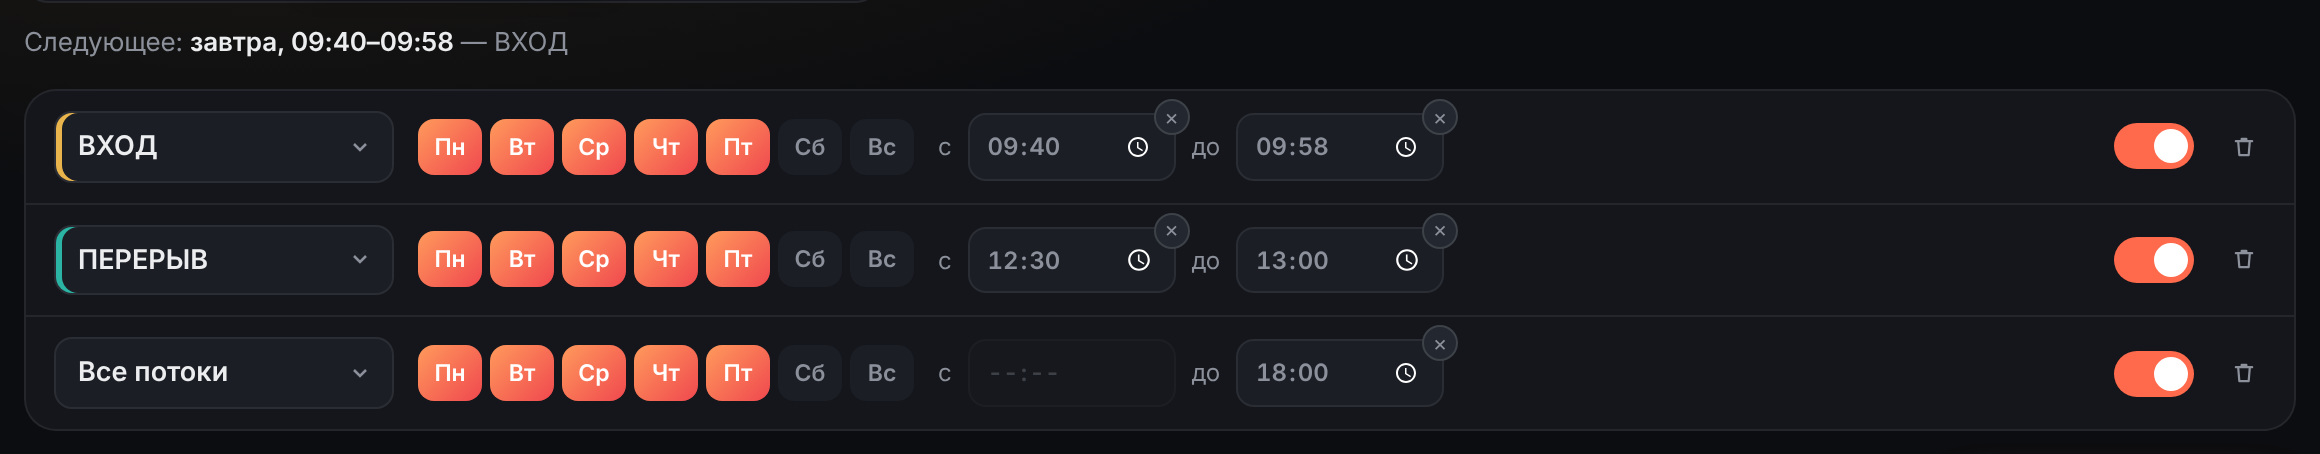
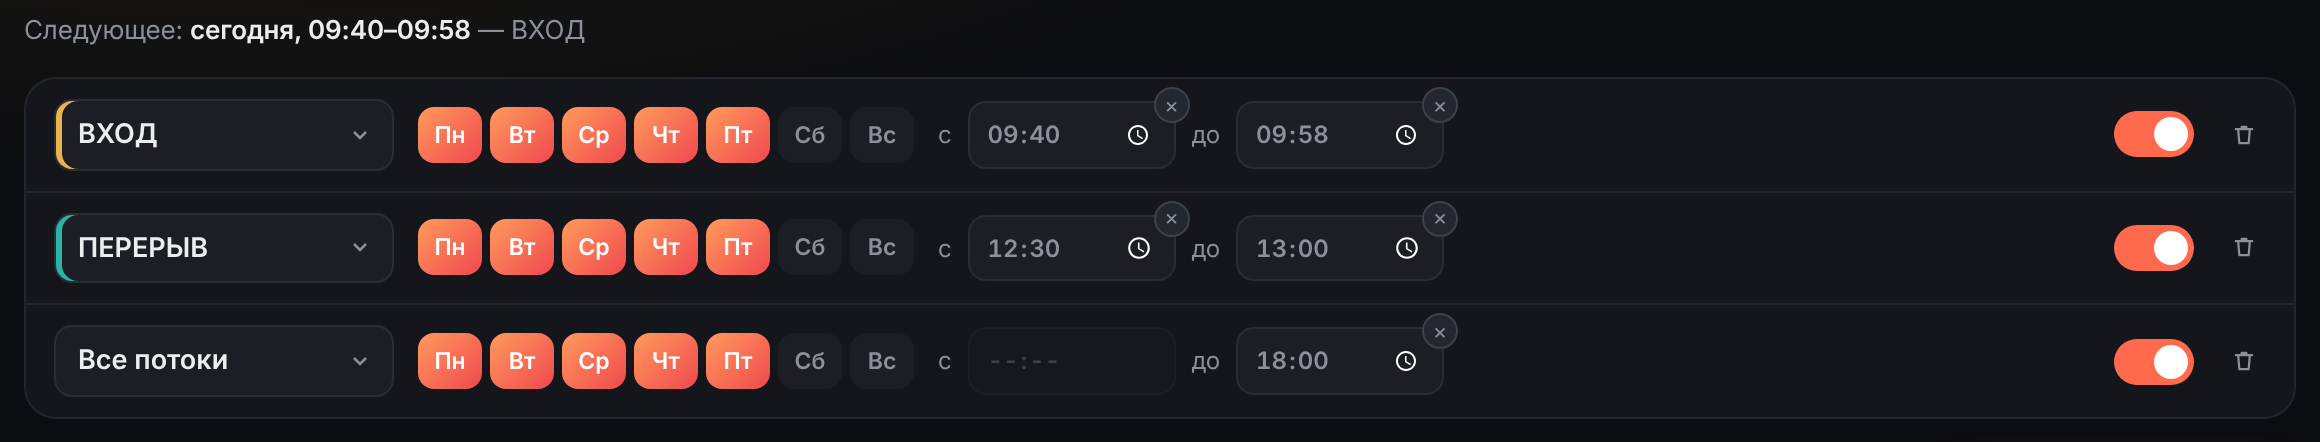
3.0.6: schedule rules across midnight, «Папка не найдена», cleaner cards and texts; site: Stream Deck Mini
Claude-Session: https://claude.ai/code/session_01WNY9TUvgRUgXt14yswfnxt

diff --git a/docs/index.html b/docs/index.html
@@ -154,21 +154,23 @@ footer a:hover { color: var(--tx); }
 .sd-intro { color: #C9CBD1; font-size: 14.5px; margin: 0 0 18px; }
 .sd-intro b { color: var(--tx); }
 .sd-note { color: var(--mu); font-size: 13px; margin: 18px 0 0; }
-.sd-device { justify-self: center; text-align: center; }
-.sd-body { display: grid; grid-template-columns: repeat(5, 64px); gap: 10px; padding: 18px; border-radius: 22px; background: linear-gradient(180deg, #1C1D21, #0D0E10); border: 1px solid var(--line2); box-shadow: 0 40px 80px -30px #000, inset 0 1px 0 rgba(255,255,255,.06); }
-.sd-body img, .sd-body span { width: 64px; height: 64px; border-radius: 10px; display: block; }
-.sd-body span { background: #08090A; box-shadow: inset 0 0 0 1px rgba(255,255,255,.05); }
-.sd-stand { width: 46%; height: 16px; margin: 0 auto; background: linear-gradient(180deg, #121316, #08090A); border-radius: 0 0 12px 12px; border: 1px solid var(--line); border-top: 0; }
+.sd-device { justify-self: center; text-align: center; perspective: 1100px; }
+.sd-mini { position: relative; display: inline-block; transform: rotateX(16deg); transform-origin: 50% 100%; }
+.sd-body { position: relative; display: grid; grid-template-columns: repeat(3, 92px); gap: 14px; padding: 26px 28px 30px; border-radius: 26px; background: linear-gradient(160deg, #2A2C31 0%, #16171A 38%, #0B0C0E 100%); box-shadow: 0 2px 0 #050506, 0 50px 70px -30px #000, inset 0 1px 0 rgba(255,255,255,.14), inset 0 -2px 6px rgba(0,0,0,.6); }
+.sd-body::before { content: ""; position: absolute; inset: 12px; border-radius: 18px; background: #050607; box-shadow: inset 0 2px 6px rgba(0,0,0,.9), 0 1px 0 rgba(255,255,255,.05); }
+.sd-body img { position: relative; width: 92px; height: 92px; border-radius: 12px; display: block; box-shadow: 0 0 0 2px #000, 0 4px 10px rgba(0,0,0,.6); }
+.sd-base { width: 78%; height: 20px; margin: -2px auto 0; background: linear-gradient(180deg, #1A1B1F, #070708); border-radius: 0 0 16px 16px; box-shadow: 0 24px 30px -12px rgba(0,0,0,.9); }
+.sd-floor { width: 90%; height: 26px; margin: -6px auto 0; background: radial-gradient(50% 60% at 50% 40%, rgba(0,0,0,.65), transparent 70%); }
 .sd-cap { color: var(--mu2); font-size: 12px; margin: 14px 0 0; }
 @media (max-width: 1000px) { .features.four { grid-template-columns: repeat(2, 1fr); } }
-@media (max-width: 560px) { .features.four, .trio.two { grid-template-columns: 1fr; } .sd-body { grid-template-columns: repeat(5, 48px); gap: 7px; padding: 12px; } .sd-body img, .sd-body span { width: 48px; height: 48px; border-radius: 8px; } }
+@media (max-width: 560px) { .features.four, .trio.two { grid-template-columns: 1fr; } .sd-body { grid-template-columns: repeat(3, 70px); gap: 10px; padding: 20px 20px 22px; } .sd-body img { width: 70px; height: 70px; border-radius: 9px; } }
 </style>
 </head>
 <body>
 <nav>
   <div class="wrap">
     <a class="brand" href="#"><img src="icon.png" alt="">PolyPlayer</a>
-    <div class="links"><a href="#who">Для кого</a><a href="#about">Как устроено</a><a href="#control">Управление</a><a href="#streamdeck">Stream Deck</a><a href="#faq">Вопросы</a></div>
+    <div class="links"><a href="#who">Для кого</a><a href="#about">Как устроено</a><a href="#control">Управление</a><a href="#streamdeck">Stream Deck</a><a href="#faq">Вопросы</a></div>
     <a class="btn btn-acc" href="https://github.com/polyplayer-app/polyplayer/releases/latest/download/PolyPlayer-Setup.exe">Скачать</a>
   </div>
 </nav>
@@ -227,7 +229,7 @@ footer a:hover { color: var(--tx); }
     <div class="features four">
       <div class="f"><div class="ic"><svg viewBox="0 0 24 24" fill="none" stroke="currentColor" stroke-width="2" stroke-linecap="round" stroke-linejoin="round"><rect x="3" y="4" width="18" height="14" rx="2.5"/><path d="M10 9v4l3.5-2z"/><path d="M8 21h8"/></svg></div><b>Окно программы</b><p>Всё на виду: сразу понятно, какой поток играет, и у каждого свой регулятор громкости.</p></div>
       <div class="f"><div class="ic"><svg viewBox="0 0 24 24" fill="none" stroke="currentColor" stroke-width="2" stroke-linecap="round" stroke-linejoin="round"><rect x="2" y="6" width="20" height="12" rx="2.5"/><path d="M6 10h.01M10 10h.01M14 10h.01M18 10h.01M7 14h10"/></svg></div><b>Горячие клавиши</b><p>Включайте и ставьте на паузу потоки, останавливайте всё и переключайте треки без мыши — даже когда окно свёрнуто.</p></div>
-      <div class="f"><div class="ic"><svg viewBox="0 0 24 24" fill="none" stroke="currentColor" stroke-width="2" stroke-linecap="round"><rect x="3" y="5" width="18" height="14" rx="3"/><path d="M8 10h.01M12 10h.01M16 10h.01M8 14h.01M12 14h.01M16 14h.01"/></svg></div><b>Пульт Stream Deck</b><p>Каждый поток — на отдельной кнопке. Кнопка показывает, играет ли поток и какая у него громкость.</p></div>
+      <div class="f"><div class="ic"><svg viewBox="0 0 24 24" fill="none" stroke="currentColor" stroke-width="2" stroke-linecap="round"><rect x="3" y="5" width="18" height="14" rx="3"/><path d="M8 10h.01M12 10h.01M16 10h.01M8 14h.01M12 14h.01M16 14h.01"/></svg></div><b>Пульт Stream Deck</b><p>Каждый поток — на отдельной кнопке. Кнопка показывает, играет ли поток и какая у него громкость.</p></div>
       <div class="f"><div class="ic"><svg viewBox="0 0 24 24" fill="none" stroke="currentColor" stroke-width="2" stroke-linecap="round"><circle cx="12" cy="13" r="8"/><path d="M12 9v4l3 2M9 2h6"/></svg></div><b>Расписание</b><p>Укажите дни недели и время, и нужный поток включится сам, а к концу промежутка плавно затихнет.</p></div>
     </div>
   </div>
@@ -245,20 +247,22 @@ footer a:hover { color: var(--tx); }
 <section id="streamdeck">
   <div class="wrap split">
     <div>
-      <div class="kicker">Пульт Stream Deck</div>
+      <div class="kicker">Пульт Stream Deck</div>
       <h2>Каждый поток — <em>на своей кнопке</em></h2>
-      <p class="sd-intro"><b>Stream Deck</b> — пульт Elgato с кнопками-экранчиками, каждой из которых назначается своё действие.</p>
-      <p class="sd-intro">PolyPlayer устанавливает на пульт свой плагин: каждый поток получает отдельную кнопку с названием, цветом и шкалой громкости. Пока поток играет, кнопка светится. Нажатие включает поток или ставит его на паузу, удержание — останавливает. Есть и отдельные кнопки «Стоп всё» и «Следующий трек», а на Stream Deck + громкость потока меняется поворотом регулятора.</p>
-      <p class="sd-note">Плагин устанавливается вместе с программой, а если пульт появился позже — из настроек PolyPlayer. Stream Deck не обязателен: всё то же самое можно делать в окне программы или горячими клавишами.</p>
+      <p class="sd-intro"><b>Stream Deck</b> — пульт Elgato с кнопками-экранчиками. PolyPlayer поддерживает его напрямую: собственный плагин ставится вместе с программой, и ничего не нужно настраивать через горячие клавиши или сторонние плагины. Перетащите на кнопку действие «Поток» и выберите поток прямо на пульте.</p>
+      <p class="sd-intro">Каждый поток получает отдельную кнопку с названием, цветом и шкалой громкости. Пока поток играет, кнопка светится. Нажатие включает поток или ставит его на паузу, удержание — останавливает. Есть и отдельные кнопки «Стоп всё» и «Следующий трек», а на Stream Deck + громкость потока меняется поворотом регулятора.</p>
+      <p class="sd-note">Если пульт появился позже, плагин можно поставить из настроек PolyPlayer. Stream Deck не обязателен: всё то же самое можно делать в окне программы или горячими клавишами.</p>
     </div>
-    <div class="sd-device" aria-label="Пульт с кнопками PolyPlayer">
-      <div class="sd-body">
-        <img src="img/key-playing.png" alt="Поток «Вход» играет"><img src="img/key-stopped.png" alt="Поток «Перерыв»"><img src="img/key-finale.png" alt="Поток «Финал»"><img src="img/key-stopall.png" alt="Стоп всё"><img src="img/key-next.png" alt="Следующий трек">
-        <span></span><span></span><span></span><span></span><img src="img/key-panel.png" alt="Кнопка PolyPlayer">
-        <span></span><span></span><span></span><span></span><span></span>
+    <div class="sd-device" aria-label="Stream Deck Mini с кнопками PolyPlayer">
+      <div class="sd-mini">
+        <div class="sd-body">
+          <img src="img/key-playing.png" alt="Поток «Вход» играет"><img src="img/key-stopped.png" alt="Поток «Перерыв»"><img src="img/key-finale.png" alt="Поток «Финал»">
+          <img src="img/key-stopall.png" alt="Стоп всё"><img src="img/key-next.png" alt="Следующий трек"><img src="img/key-panel.png" alt="Кнопка PolyPlayer">
+        </div>
+        <div class="sd-base"></div>
       </div>
-      <div class="sd-stand"></div>
-      <p class="sd-cap">Так кнопки PolyPlayer выглядят на пульте с 15 кнопками</p>
+      <div class="sd-floor"></div>
+      <p class="sd-cap">Так кнопки PolyPlayer выглядят на Stream Deck Mini</p>
     </div>
   </div>
 </section>
@@ -271,7 +275,7 @@ footer a:hover { color: var(--tx); }
     <div class="steps">
       <div class="step"><b>Подготовьте папки</b><p>Разложите музыку по папкам: одна папка — один поток.</p></div>
       <div class="step"><b>Создайте потоки</b><p>Выберите для каждого потока папку и дайте ему название.</p></div>
-      <div class="step"><b>Настройте управление</b><p>Назначьте горячие клавиши, кнопки Stream Deck или расписание.</p></div>
+      <div class="step"><b>Настройте управление</b><p>Назначьте горячие клавиши, кнопки Stream Deck или расписание.</p></div>
     </div>
   </div>
 </section>
@@ -283,7 +287,7 @@ footer a:hover { color: var(--tx); }
     <div class="faq">
       <details><summary>Это действительно бесплатно?</summary><p>Да. PolyPlayer — программа с открытым исходным кодом (лицензия GPL v3). В ней нет подписок, рекламы и платных версий.</p></details>
       <details><summary>Нужен ли интернет?</summary><p>Нет. Музыка играет из папок на вашем компьютере. Интернет нужен только для того, чтобы программа узнала о выходе новой версии.</p></details>
-      <details><summary>Обязательно ли покупать Stream Deck?</summary><p>Нет. Пульт нужен тем, кому удобнее физические кнопки. Программой так же легко управлять мышью, горячими клавишами или по расписанию.</p></details>
+      <details><summary>Обязательно ли покупать Stream Deck?</summary><p>Нет. Пульт нужен тем, кому удобнее физические кнопки. Программой так же легко управлять мышью, горячими клавишами или по расписанию.</p></details>
       <details><summary>Какие файлы поддерживаются?</summary><p>MP3, M4A, AAC, WAV, FLAC, OGG и OPUS. PolyPlayer играет только файлы с компьютера и не подключается к стриминговым сервисам, поэтому музыка не зависит от сети.</p></details>
       <details><summary>Почему при установке Windows показывает синее окно SmartScreen?</summary><p>У PolyPlayer пока нет платной цифровой подписи разработчика, и о таких программах Windows на всякий случай предупреждает. Нажмите «Подробнее», затем «Выполнить в любом случае». Исходный код открыт, его можно проверить на GitHub.</p></details>
       <details><summary>Как обновлять программу?</summary><p>Вручную ничего скачивать не нужно. При запуске PolyPlayer сам проверяет, вышла ли новая версия, и предлагает обновиться. Обновление устанавливается за пару минут, потоки и расписание сохраняются.</p></details>
@@ -301,7 +305,7 @@ footer a:hover { color: var(--tx); }
     </a>
   </div>
   <footer>
-    <span>© PolyPlayer · открытый исходный код, лицензия GPL v3 · Stream Deck — товарный знак Elgato</span>
+    <span>© PolyPlayer · открытый исходный код, лицензия GPL v3 · Stream Deck — товарный знак Elgato</span>
     <span><a href="https://github.com/polyplayer-app/polyplayer">GitHub</a> · <a href="https://github.com/polyplayer-app/polyplayer/releases">Все версии</a> · <a href="https://github.com/polyplayer-app/polyplayer/issues">Сообщить о проблеме</a></span>
   </footer>
 </div>

diff --git a/app/public/index.html b/app/public/index.html
@@ -283,11 +283,11 @@ dialog::backdrop { background: rgba(5,6,8,.65); backdrop-filter: blur(3px); }
 
   <section class="pane" data-pane="settings" hidden>
     <label class="set">
-      <div class="txt"><b>Запуск вместе с компьютером</b><small>После включения компьютера PolyPlayer запустится сам и спрячется в значок возле часов</small></div>
+      <div class="txt"><b>Запускать вместе с Windows</b><small>PolyPlayer запустится свёрнутым в трей.</small></div>
       <span class="switch"><input type="checkbox" id="autoOpen"><span></span></span>
     </label>
     <label class="set">
-      <div class="txt"><b>Играет только один поток</b><small>Когда включаете поток, тот, что играл, плавно затихает. Выключите, если нужно смешивать потоки</small></div>
+      <div class="txt"><b>Играет только один поток</b><small>Новый поток плавно сменяет тот, что играл. Выключите, чтобы потоки звучали вместе.</small></div>
       <span class="switch"><input type="checkbox" id="soloAll"><span></span></span>
     </label>
     <div class="set hk-set">
@@ -308,7 +308,7 @@ dialog::backdrop { background: rgba(5,6,8,.65); backdrop-filter: blur(3px); }
       <a class="btn2 lnk" id="updNews" href="#" target="_blank" hidden>Что нового</a>
       <button class="btn2" id="updBtn" type="button">Проверить обновления</button>
     </div>
-    <p class="note">ICON:help Крестик прячет окно в значок возле часов — музыка продолжает играть. Выйти из программы: правый клик по значку → «Выйти».</p>
+    <p class="note">ICON:help Если закрыть окно, музыка продолжит играть, а PolyPlayer останется в трее. Выйти — правый клик по значку → «Выйти».</p>
   </section>
 </div>
 <dialog id="updDlg" class="upd-dlg">
@@ -333,7 +333,7 @@ dialog::backdrop { background: rgba(5,6,8,.65); backdrop-filter: blur(3px); }
       <button class="ghost" id="helpClose" type="button">Закрыть</button>
     </div>
 
-    <p class="lead"><b>PolyPlayer</b> играет фоновую музыку в несколько потоков. Каждый <b>поток</b> — это плеер, который воспроизводит треки из назначенной папки. Потоки создаются вручную и включаются и выключаются одной кнопкой.</p>
+    <p class="lead"><b>PolyPlayer</b> — многопоточный аудиоплеер. Каждый <b>поток</b> играет музыку из своей папки, а включать потоки можно кнопками, горячими клавишами, с пульта Stream Deck или по расписанию.</p>
     <p>В программе три вкладки: <b>Потоки</b> — список созданных потоков, <b>Расписание</b> — автоматическое включение и выключение потоков, <b>Настройки</b> — общие настройки программы.</p>
 
     <h3>1. Потоки: создание и изменение</h3>
@@ -368,18 +368,18 @@ dialog::backdrop { background: rgba(5,6,8,.65); backdrop-filter: blur(3px); }
     <p><b>Горячие клавиши</b> — у каждого потока может быть своё сочетание клавиш, оно назначается в настройках потока. Сочетания для «Стоп всё» и «Следующего трека» задаются во вкладке «Настройки». Горячие клавиши работают во всей системе, даже когда окно PolyPlayer свёрнуто.</p>
     <p><b>Громкость потока</b> — ползунок на его карточке, программа её запоминает. Общую громкость регулируйте на звуковой карте, микшере или значком динамика возле часов.</p>
     <p>Обычно одновременно играет один поток: например, включили «Плейлист 2», пока играл «Плейлист 1», — первый сам плавно затихнет. Если нужно, чтобы потоки звучали вместе, выключите это во вкладке «Настройки».</p>
-    <p>Музыка играет, пока PolyPlayer запущен, даже когда окна не видно. <b>Крестик</b> в углу окна не выключает программу: окно прячется в трей — значок возле часов, музыка продолжает играть. Чтобы полностью выйти из программы, щёлкните правой кнопкой по значку возле часов → <b>«Выйти»</b>.</p>
+    <p>Если закрыть окно, музыка не прервётся: PolyPlayer продолжит работать в трее — справа на панели задач, возле часов. Чтобы выйти полностью, щёлкните правой кнопкой по значку PolyPlayer в трее и выберите <b>«Выйти»</b>.</p>
 
     <h3>3. Расписание</h3>
     <p>Расписание само включает и выключает музыку. На вкладке «Расписание» нажмите <b>«Добавить правило»</b>, выберите поток, дни недели и время. Если выбрать <b>«Все потоки»</b>, в указанное время плавно выключится любой играющий поток.</p>
     <img class="shot" src="/help/schedule.png" width="700" alt="">
-    <p class="note2">Музыка включается только в само время «с»: если компьютер включили позже, поток сам не запустится. Без времени «с» правило только выключает поток. Правило через полночь (например, с 23:50 до 00:10) не сработает — программа его подсветит.</p>
+    <p class="note2">Музыка включается только в само время «с»: если компьютер включили позже, поток сам не запустится. Без времени «с» правило только выключает поток. Правило может переходить через полночь: «с 23:50 до 00:10» выключит музыку уже на следующий день.</p>
 
     <h3>4. Настройки</h3>
     <img class="shot" src="/help/settings.png" width="700" alt="">
     <ul>
-      <li><b>Запуск вместе с компьютером</b> — после включения компьютера программа запустится сама и спрячется в трей.</li>
-      <li><b>Играет только один поток</b> — когда включаете поток, тот, что играл, плавно затихает. Выключите, чтобы потоки могли звучать вместе.</li>
+      <li><b>Запускать вместе с Windows</b> — после включения компьютера PolyPlayer запустится сам, свёрнутым в трей.</li>
+      <li><b>Играет только один поток</b> — новый поток плавно сменяет тот, что играл. Выключите, чтобы потоки звучали вместе.</li>
       <li><b>Горячие клавиши</b> — сочетания для «Стоп всё» и «Следующего трека». Если сочетание уже занято другой программой, PolyPlayer подсветит его красным — выберите другое.</li>
       <li><b>Плагин для Stream Deck</b> — кнопка «Установить плагин», если Stream Deck установили позже PolyPlayer.</li>
       <li><b>Версия и обновления</b> — при запуске PolyPlayer сам проверяет, вышла ли новая версия, и предлагает её установить. Проверить вручную — кнопкой «Проверить обновления».</li>
@@ -413,7 +413,8 @@ dialog::backdrop { background: rgba(5,6,8,.65); backdrop-filter: blur(3px); }
       <li><b>Пульт не реагирует</b> — проверьте, что запущена программа Stream Deck. Если PolyPlayer был закрыт, первое нажатие кнопки запустит его — подождите пару секунд.</li>
       <li><b>Музыка играет, но не слышно</b> — проверьте громкость звуковой карты и устройство вывода звука (щелчок по значку динамика возле часов).</li>
       <li><b>Поток не сохраняется</b> — в выбранной папке нет музыкальных файлов.</li>
-      <li><b>Не видно значка возле часов</b> — нажмите стрелку <b>˄</b> рядом с часами: там спрятанные значки.</li>
+      <li><b>На карточке «Папка не найдена»</b> — папку переименовали, удалили или отключили флешку. Верните её на место или выберите другую в настройках потока.</li>
+      <li><b>Не видно значка PolyPlayer в трее</b> — нажмите стрелку <b>˄</b> рядом с часами: там спрятанные значки.</li>
     </ul>
   </div>
 </dialog>
@@ -779,10 +780,11 @@ const Engine = (() => {
     report();
     if (wasStopped) {
       let list = [];
-      try { const r = await fetch('/api/tracks/' + encodeURIComponent(c.id), { cache: 'no-store' }); list = (await r.json()).tracks || []; } catch (e) { /* сеть */ }
+      let missing = false;
+      try { const r = await fetch('/api/tracks/' + encodeURIComponent(c.id), { cache: 'no-store' }); const j = await r.json(); list = j.tracks || []; missing = !!j.missing; } catch (e) { /* сеть */ }
       if (my !== c.op) return;
       c.tracks = list;
-      if (!list.length) { c.state = 'stopped'; c.error = 'В папке нет треков'; report(); return; }
+      if (!list.length) { c.state = 'stopped'; c.error = missing ? 'Папка не найдена' : 'В папке нет треков'; report(); return; }
       makeQueue(c);
       loadCurrent(c);
       fadeTo(c, 0, 0);
@@ -1013,8 +1015,6 @@ function streamMeta(s) {
   const folder = s.folder ? s.folder.split(/[\\/]/).filter(Boolean).pop() : 'папка не выбрана';
   const bits = ['<span class="tag">' + ICON.folder + esc(folder) + '</span>'];
   if (s.hotkey) bits.push('<span class="tag hk' + (hotkeyFailed(s.hotkey) ? ' bad' : '') + '" title="' + (hotkeyFailed(s.hotkey) ? 'Сочетание занято другой программой' : 'Горячая клавиша') + '">' + esc(prettyHotkey(s.hotkey)) + '</span>');
-  bits.push('<span class="tag">плавно ' + s.fadeIn + ' / ' + s.fadeOut + ' с</span>');
-  if (s.crossfade > 0) bits.push('<span class="tag">переход ' + s.crossfade + ' с</span>');
   if (s.shuffle) bits.push('<span class="tag">' + ICON.shuffle + 'перемешать</span>');
   if (s.randomStart) bits.push('<span class="tag">с любого места</span>');
   if (!s.loop) bits.push('<span class="tag">один проход</span>');
@@ -1140,7 +1140,7 @@ setInterval(updateProgress, 250);
 
 // ---------- расписание ----------
 function renderNextRun() {
-  if (!nextRun) { $('#nextRun').innerHTML = config.schedules.length ? 'Ближайших событий нет — проверьте дни и переключатели.' : 'Правила включают и выключают музыку сами, в нужные дни и время.'; return; }
+  if (!nextRun) { $('#nextRun').innerHTML = config.schedules.length ? 'Ближайших событий нет — проверьте дни и переключатели.' : ''; return; }
   const d = new Date(nextRun.at);
   const today = new Date(); today.setHours(0, 0, 0, 0);
   const diff = Math.round((new Date(d).setHours(0, 0, 0, 0) - today) / 86400000);
@@ -1151,7 +1151,7 @@ function renderNextRun() {
 
 function schedMode(sc) {
   if (!sc.start && !sc.end) return 'укажите время';
-  if (sc.start && sc.end && sc.end <= sc.start) return '«до» раньше «с» — не сработает';
+  if (sc.start && sc.end && sc.end === sc.start) return '«с» и «до» совпадают';
   return '';
 }
 
@@ -1177,7 +1177,7 @@ function renderSchedules() {
   box.style.display = config.schedules.length ? '' : 'none';
   if (!config.schedules.length) {
     box.insertAdjacentHTML('afterend', '');
-    if (!$('#schedEmpty')) box.insertAdjacentHTML('beforebegin', '<div class="empty" id="schedEmpty">Правил пока нет. Например: «ПЛЕЙЛИСТ 1», воскресенье, с 09:40 до 09:55.</div>');
+    if (!$('#schedEmpty')) box.insertAdjacentHTML('beforebegin', '<div class="empty" id="schedEmpty">Правил пока нет. Нажмите «Добавить правило», выберите поток, дни и время — PolyPlayer сам включит музыку и плавно выключит её к концу промежутка.</div>');
     return;
   }
   const emp = $('#schedEmpty'); if (emp) emp.remove();

diff --git a/app/server.js b/app/server.js
@@ -326,7 +326,7 @@ function createApp(opts) {
     let best = null;
     for (const s of config.schedules) {
       if (!s.enabled || !(s.streamId === '*' || stream(s.streamId))) continue;
-      if (s.start && s.end && s.end <= s.start) continue; // правило через полночь не срабатывает
+      if (s.start && s.end && s.end === s.start) continue; // «с» и «до» совпадают — правило пустое
       for (let add = 0; add < 8; add++) {
         const day = new Date(now);
         day.setDate(day.getDate() + add);
@@ -495,19 +495,25 @@ function createApp(opts) {
   function tick() {
     const now = app.now();
     const nowMs = now.getTime();
-    const today = ymd(now);
     let dirty = false;
     for (const s of config.schedules) {
-      if (!s.enabled || !s.days.includes(now.getDay())) continue;
+      if (!s.enabled) continue;
       const all = s.streamId === '*';
       const st = all ? null : stream(s.streamId);
       if (!all && !st) continue;
-      const start = !all && s.start ? atTime(now, s.start) : null;
-      const end = s.end ? atTime(now, s.end) : null;
+      // правило «через полночь» (до < с) начинается в свой день, а заканчивается на следующий —
+      // поэтому вчерашнее правило тоже проверяем
+      const overnight = !all && !!s.start && !!s.end && s.end < s.start;
+      for (const back of overnight ? [0, 1] : [0]) {
+      const day = new Date(now); day.setDate(day.getDate() - back);
+      if (!s.days.includes(day.getDay())) continue;
+      const start = !all && s.start ? atTime(day, s.start) : null;
+      let end = null;
+      if (s.end) { const endDay = new Date(day); if (overnight) endDay.setDate(endDay.getDate() + 1); end = atTime(endDay, s.end); }
       if (start == null && end == null) continue;
       if (start != null && end != null && end <= start) continue;
-      // отметка «уже сработало сегодня» привязана к времени правила: изменили время — правило снова сработает
-      const key = s.id + '@' + today + '@' + s.streamId + ' ' + (s.start || '') + '-' + (s.end || '');
+      // отметка «уже сработало» привязана к дню начала и времени правила: изменили время — правило снова сработает
+      const key = s.id + '@' + ymd(day) + '@' + s.streamId + ' ' + (s.start || '') + '-' + (s.end || '');
       // затухание начинается заранее, чтобы ко времени «до» была тишина
       const fadeOut = all ? Math.max(1, ...config.streams.map((x) => x.fadeOut || 0)) : st.fadeOut;
       const stopAt = end != null ? Math.max(start != null ? start : -Infinity, end - fadeOut * 1000) : null;
@@ -529,6 +535,7 @@ function createApp(opts) {
         const fade = Math.max(0.5, (end - nowMs) / 1000);
         log('Schedule end: ' + (all ? 'ALL' : st.name) + ' ' + s.end + ' (fade ' + fade.toFixed(1) + 's)');
         if (all) command({ cmd: 'stopAll', fade }); else command({ cmd: 'stop', id: st.id, fade });
+      }
       }
     }
     // чистим старые отметки
@@ -721,7 +728,7 @@ function createApp(opts) {
     if (p.startsWith('/api/tracks/')) {
       const s = stream(p.slice('/api/tracks/'.length));
       if (!s) return sendJson(res, { tracks: [] }, 404);
-      return sendJson(res, { tracks: scanFolder(s.folder) });
+      return sendJson(res, { tracks: scanFolder(s.folder), missing: !!s.folder && !fs.existsSync(s.folder) });
     }
     if (p === '/api/open') { // ярлык на рабочем столе: показать окно (или открыть проигрыватель)
       app.showWindow();

diff --git a/RELEASE_NOTES.md b/RELEASE_NOTES.md
@@ -1,8 +1,8 @@
-**Что нового в 3.0.5**
-- Окно обновления больше не показывает лишние кнопки: пока идёт загрузка, кнопки «Скачать и обновить» нет, а когда обновление готово, остаётся только «Перезапустить».
-
-**Что нового в 3.0.4**
-- **Горячие клавиши.** Каждому потоку можно назначить своё сочетание клавиш: нажатие включает поток или ставит на паузу. Для «Стоп всё» и «Следующего трека» сочетания задаются в «Настройках». Клавиши работают, даже когда окно спрятано в трей. Если сочетание уже занято другой программой, PolyPlayer об этом скажет.
+**Что нового в 3.0.6**
+- **Правила расписания через полночь.** Правило «с 23:50 до 00:10» включит музыку в свой день и выключит её уже на следующий.
+- **«Папка не найдена».** Если папку потока переименовали, удалили или отключили флешку, на карточке так и написано.
+- **Карточки потоков стали чище:** длительности плавного старта, остановки и перехода видны только в настройках потока.
+- **Короче и понятнее тексты** в «Настройках», справке и расписании.
 
 **Файлы**
 - `PolyPlayer-Setup.exe` — установщик последней версии (плагин для Stream Deck внутри).
